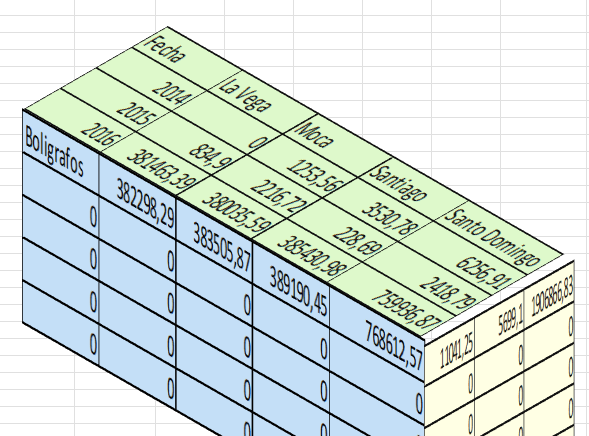
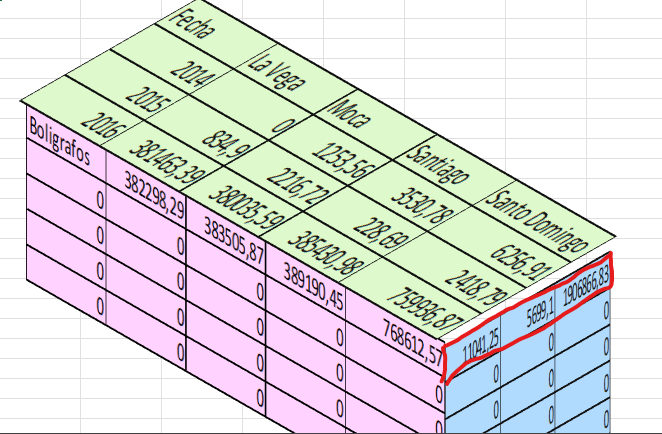
add:question4

diff --git a/README.md b/README.md
@@ -378,9 +378,9 @@ Luego se observaron los valores registrados para cada año.
 
 | Año | Ventas |
 |------|---------|
-| 2014 | XXXX |
-| 2015 | XXXX |
-| 2016 | XXXX |
+| 2014 | 482,79 |
+| 2015 | 3374,69|
+| 2016 | 389315,08 |
 
 ---
 
